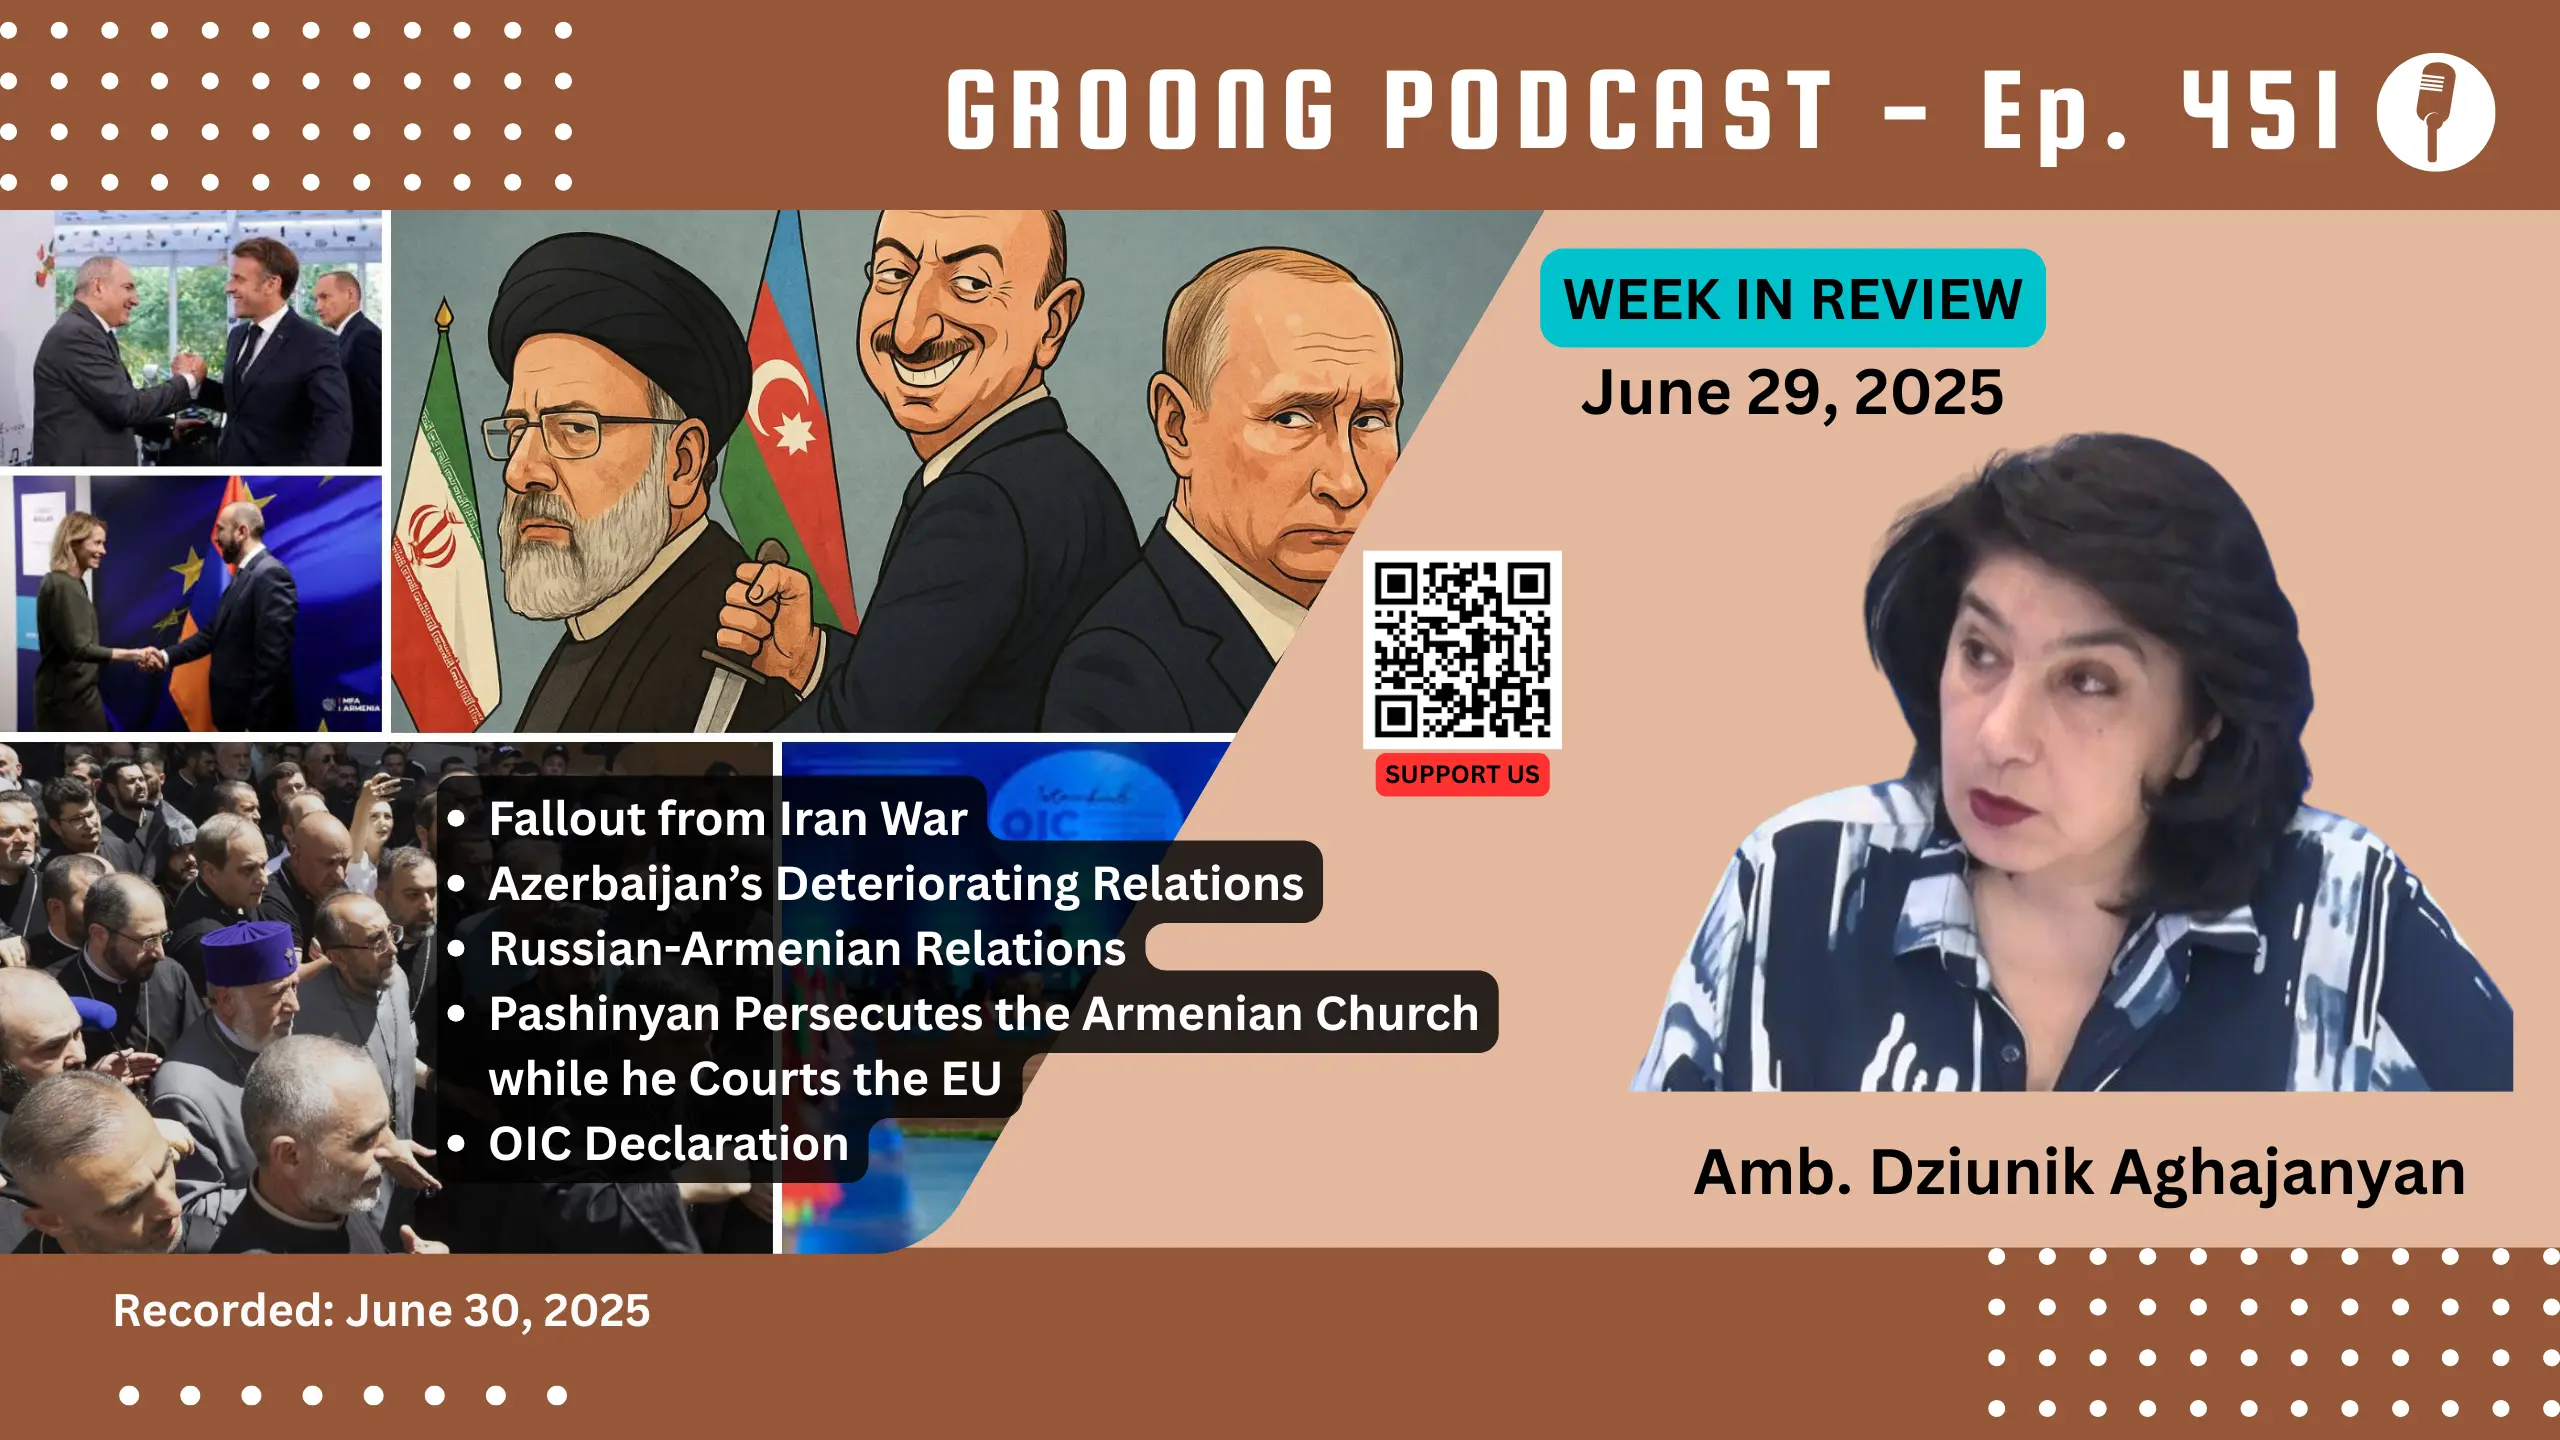
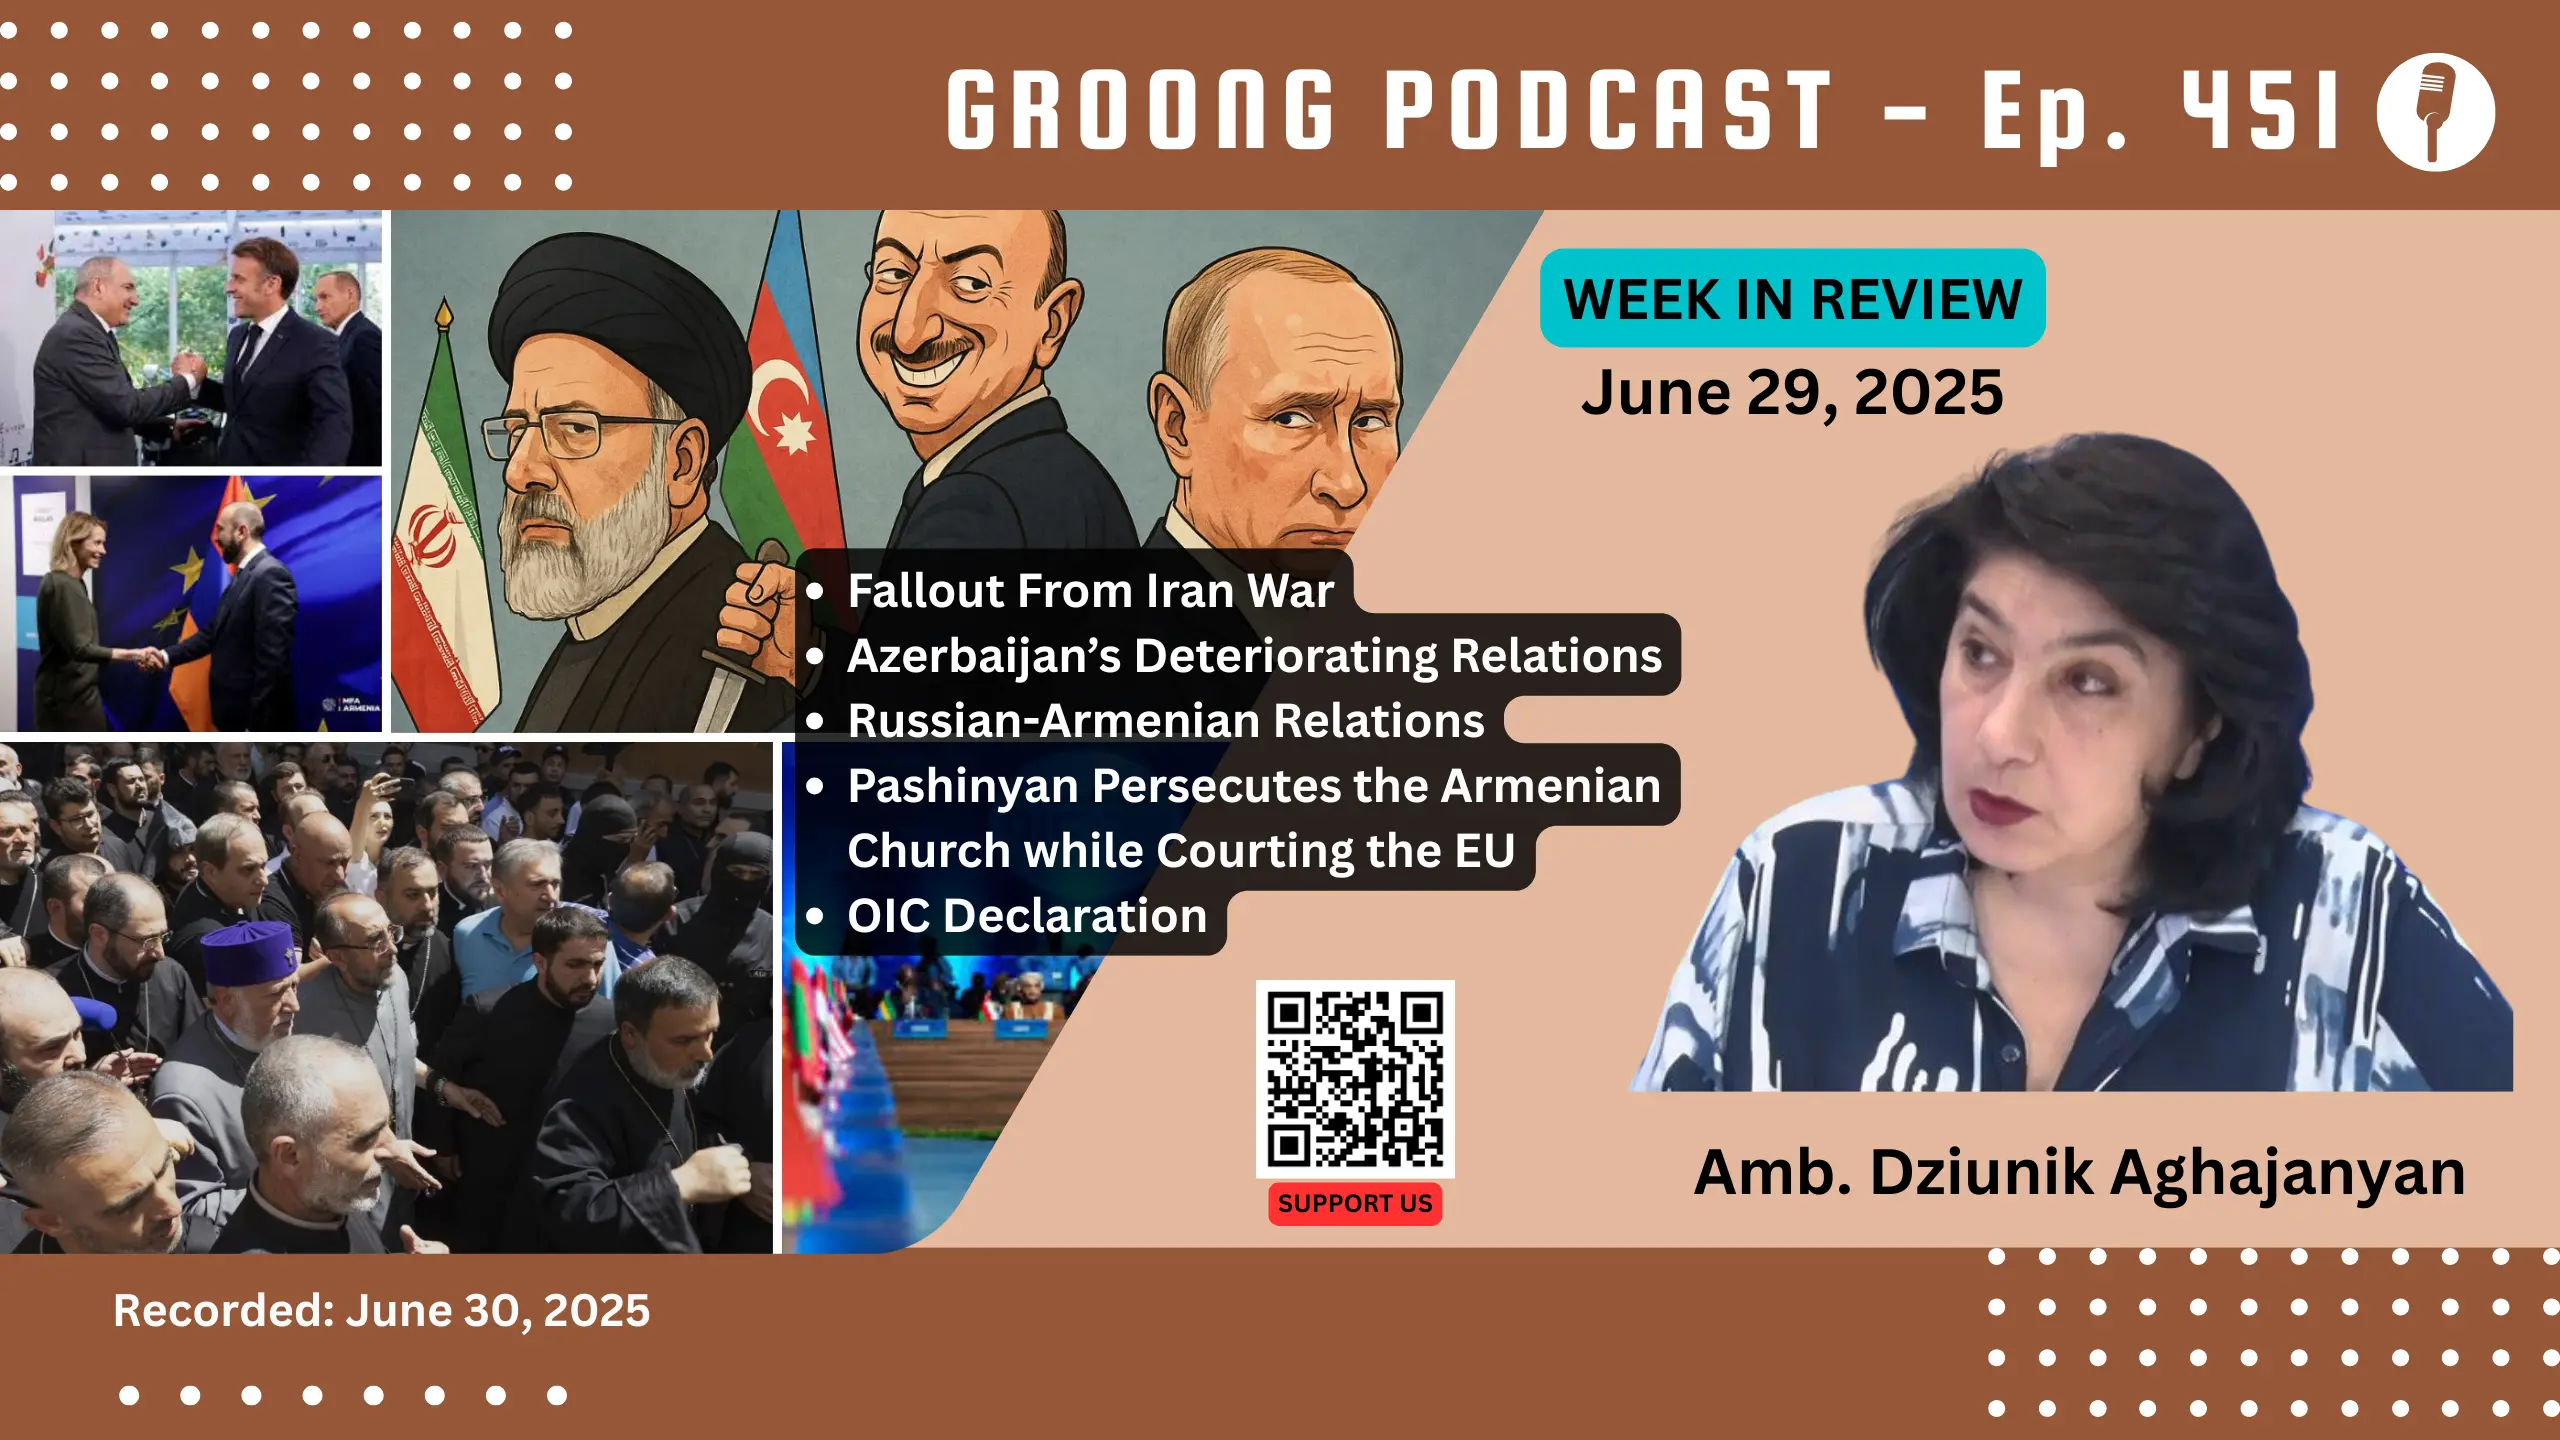
ep 451 content updates.

Changed region(s): [[0.1562, 0.375, 0.6562, 0.875]]

diff --git a/content/episode/451-dziunik-aghajanian-iran-azerbaijan-russia-armenia-relations-persecution-of-the-church-eu-macron-kallas-in-yerevan-oic-istanbul-declaration.md b/content/episode/451-dziunik-aghajanian-iran-azerbaijan-russia-armenia-relations-persecution-of-the-church-eu-macron-kallas-in-yerevan-oic-istanbul-declaration.md
@@ -33,9 +33,14 @@ Description = """
 * [Dziunik Aghajanian](/guest/dzaghajanian)
 
 #### Topics:
-* Genocide Recognition and State Silence
-* Iran-Azerbaijan Talks & Geopolitical Shifts
-* Bandar Abbas: Explosion, or Warning?
+* Iran War
+* Iran-Azerbaijan Relations
+* Russian-Azerbaijani Tensions
+* Russian-Armenian Relations
+* Persecution of The Church Continues
+* Kaja Kallas in Armenia
+* OIC Declaration
+
 
 Episode 451 | Recorded: June 30, 2025"""
 
